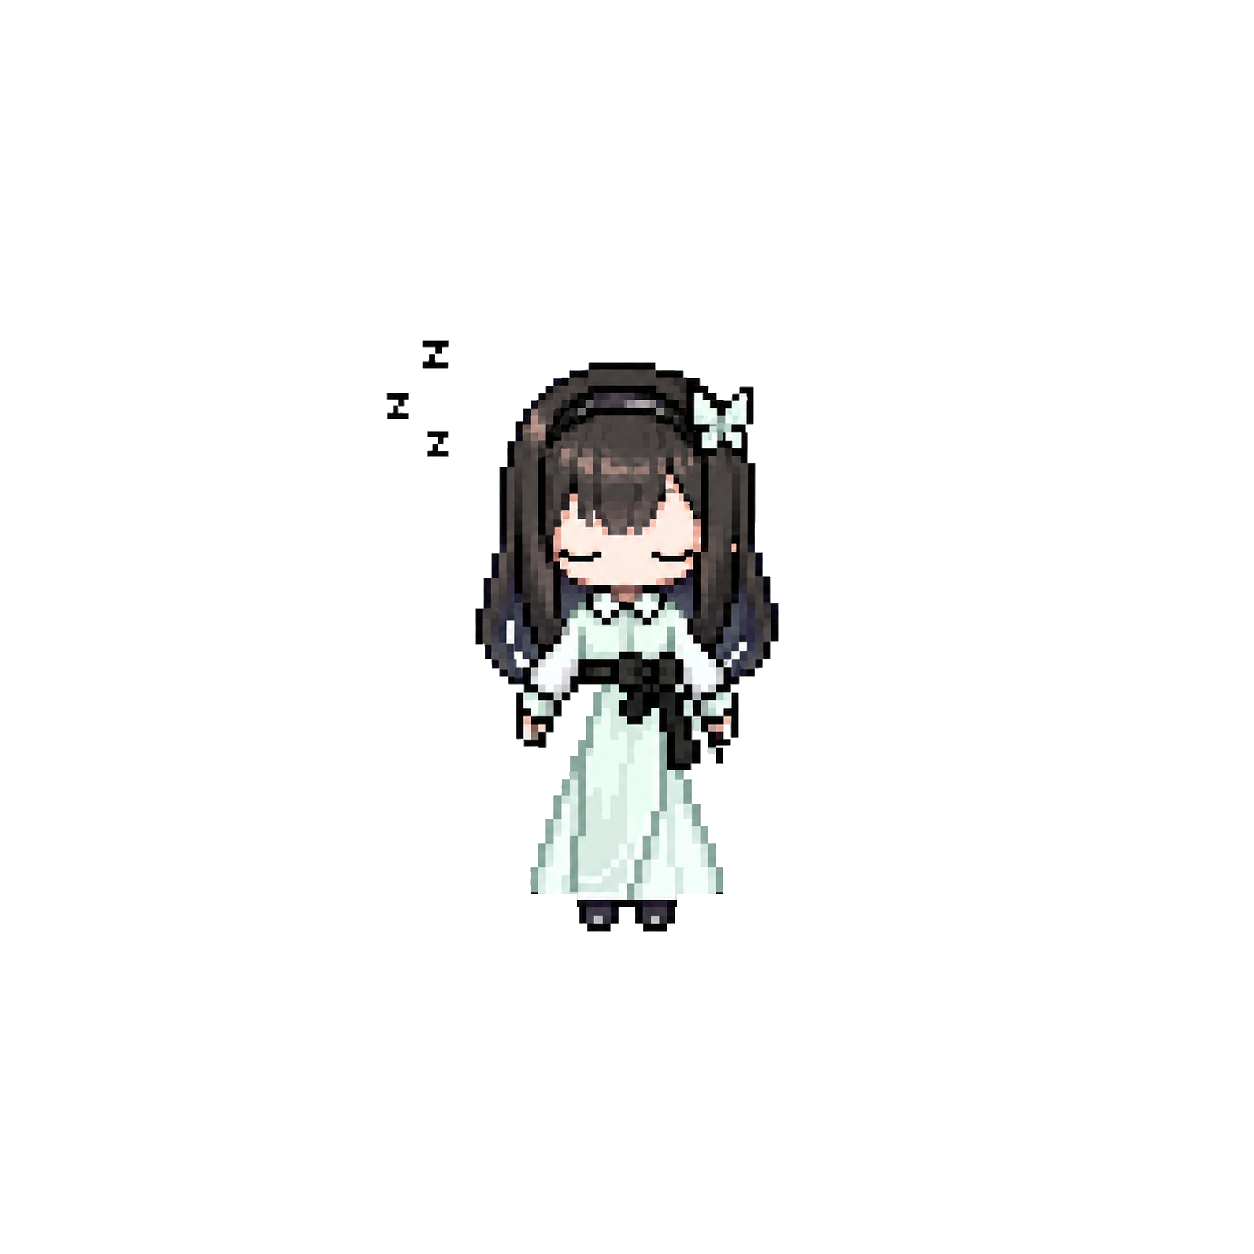
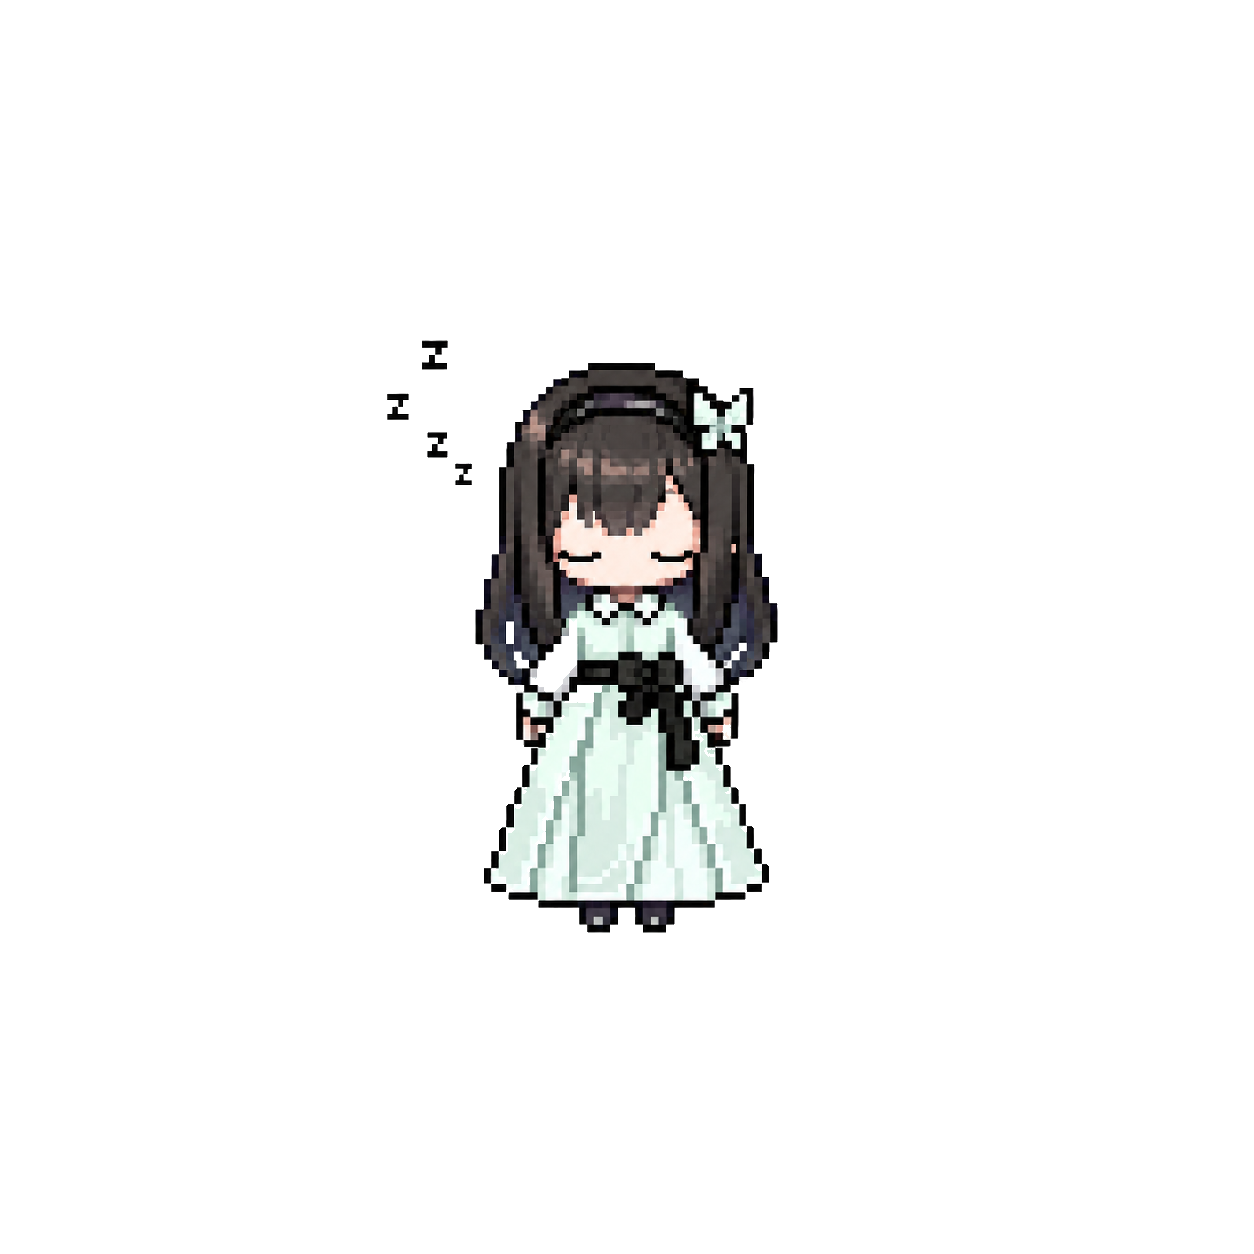
fix: rebuild casual frames from pristine sources + version badge
The casual set is now built one-shot from the untouched exports (kept
permanently in assets/character/casual-src, excluded from the app bundle):

- The shipped silhouettes serve as an oracle: the background flood is
  un-flooded wherever it intrudes into the known figure, so outline gaps can
  no longer cost any cloth - the sleeves and dress sides are the original
  art again, not donor patches. 笑 is the user's own smile at last.
- Hair-gap checker pockets are cleared by a green-tint test (the mint dress
  reads G+8..12, checker reads neutral) with positional protection for the
  eye glints and collar cross ornaments, which are neutral white too; every
  clearance was verified visually. Ghost strings, ground lines and zoom
  variance handled by the proven passes.

Also adds a tiny version badge (v<appVersion>) beside the title in the
popover header.

diff --git a/src/renderer/renderer.js b/src/renderer/renderer.js
@@ -1780,6 +1780,7 @@ window.chatApi.onProactive?.((payload) => {
 // ============================================================
 const agentBadge = document.getElementById("agentBadge");
 const providerBadge = document.getElementById("providerBadge");
+const versionBadge = document.getElementById("versionBadge");
 
 let queueLength = 0;
 let lastSettingsPayload = null;
@@ -1806,6 +1807,7 @@ function refreshComposerMeta() {
     cwdLine.title = "";
   }
   if (providerBadge) providerBadge.textContent = provider;
+  if (versionBadge && payload?.appVersion) versionBadge.textContent = `v${payload.appVersion}`;
   if (agentBadge) agentBadge.hidden = !payload?.agentMode;
   sendBtn.disabled = !backendReady;
   composerInput.placeholder = backendReady

diff --git a/src/renderer/index.html b/src/renderer/index.html
@@ -11,6 +11,7 @@
       <div class="bar-title">
         <span class="dot" aria-hidden="true"></span>
         <span>PRTS</span>
+        <span class="version-badge" id="versionBadge" title="应用版本"></span>
         <span class="provider-badge" id="providerBadge">检测中...</span>
         <span class="agent-badge" id="agentBadge" hidden>⚡ 代理</span>
       </div>

diff --git a/src/renderer/styles.css b/src/renderer/styles.css
@@ -156,6 +156,15 @@ body.is-window-moving * {
   border: 1px solid rgba(255, 209, 102, 0.4);
 }
 
+/* Tiny version tag beside the title — informational, deliberately quiet. */
+.version-badge {
+  -webkit-app-region: no-drag;
+  font-size: 9px;
+  letter-spacing: 0.04em;
+  color: var(--muted);
+  opacity: 0.75;
+}
+
 .agent-badge[hidden] {
   display: none;
 }

diff --git a/src/main/main.js b/src/main/main.js
@@ -1002,7 +1002,8 @@ function buildSettingsState() {
   return {
     ...settings.getAll(),
     chatProvider: providerAvailability.activeProvider || settings.get("chatProvider"),
-    providerAvailability
+    providerAvailability,
+    appVersion: app.getVersion()
   };
 }
 
